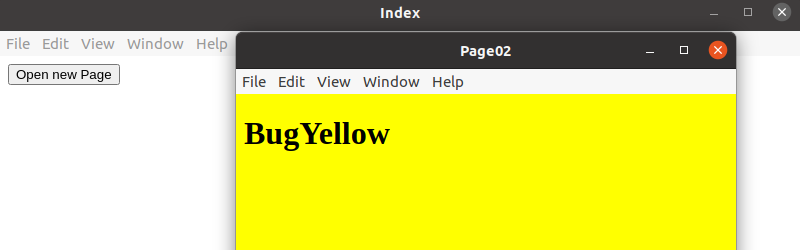
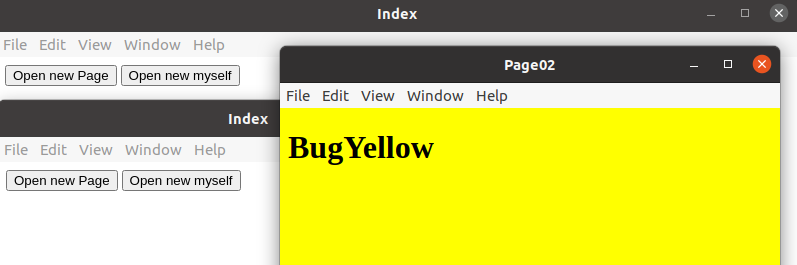
2021/1/10 second commit

Changed region(s): [[0.0, 0.112, 1.0, 1.0], [0.4517, 0.028, 0.542, 0.084]]

diff --git a/ElectronJS.md b/ElectronJS.md
@@ -259,6 +259,7 @@ app.on('ready', () => { // action 'ready'
 index.html
 <body>
     <button id="btn">Open new Page</button>
+    <button id="btn02">Open new Myself</button>
     <script src="render/index.js"></script>
 </body>
 ```
@@ -266,15 +267,29 @@ index.html
 ``` js
 render/index.js
 const btn = this.document.querySelector("#btn")
+const btn02 = this.document.querySelector("#btn02")
 const BrowserWindow = require('electron').remote.BrowserWindow // electron remote module
 
 window.onload = () => {
     btn.onclick = () => {
         newWin = new BrowserWindow({
             width: 500,
-            heoght: 500
+            height: 500
         })
         newWin.loadFile('yellow.html')
+        newWin.on('close', () => {
+            newWin = null
+        })
+    }
+    btn02.onclick = () => {
+        var newWin = new BrowserWindow({
+            width: 500,
+            height: 500,webPreferences: {
+                nodeIntegration: true, 
+                enableRemoteModule: true
+            }
+        })
+        newWin.loadFile('index.html')
         newWin.on('close', () => {
             newWin = null
         })
